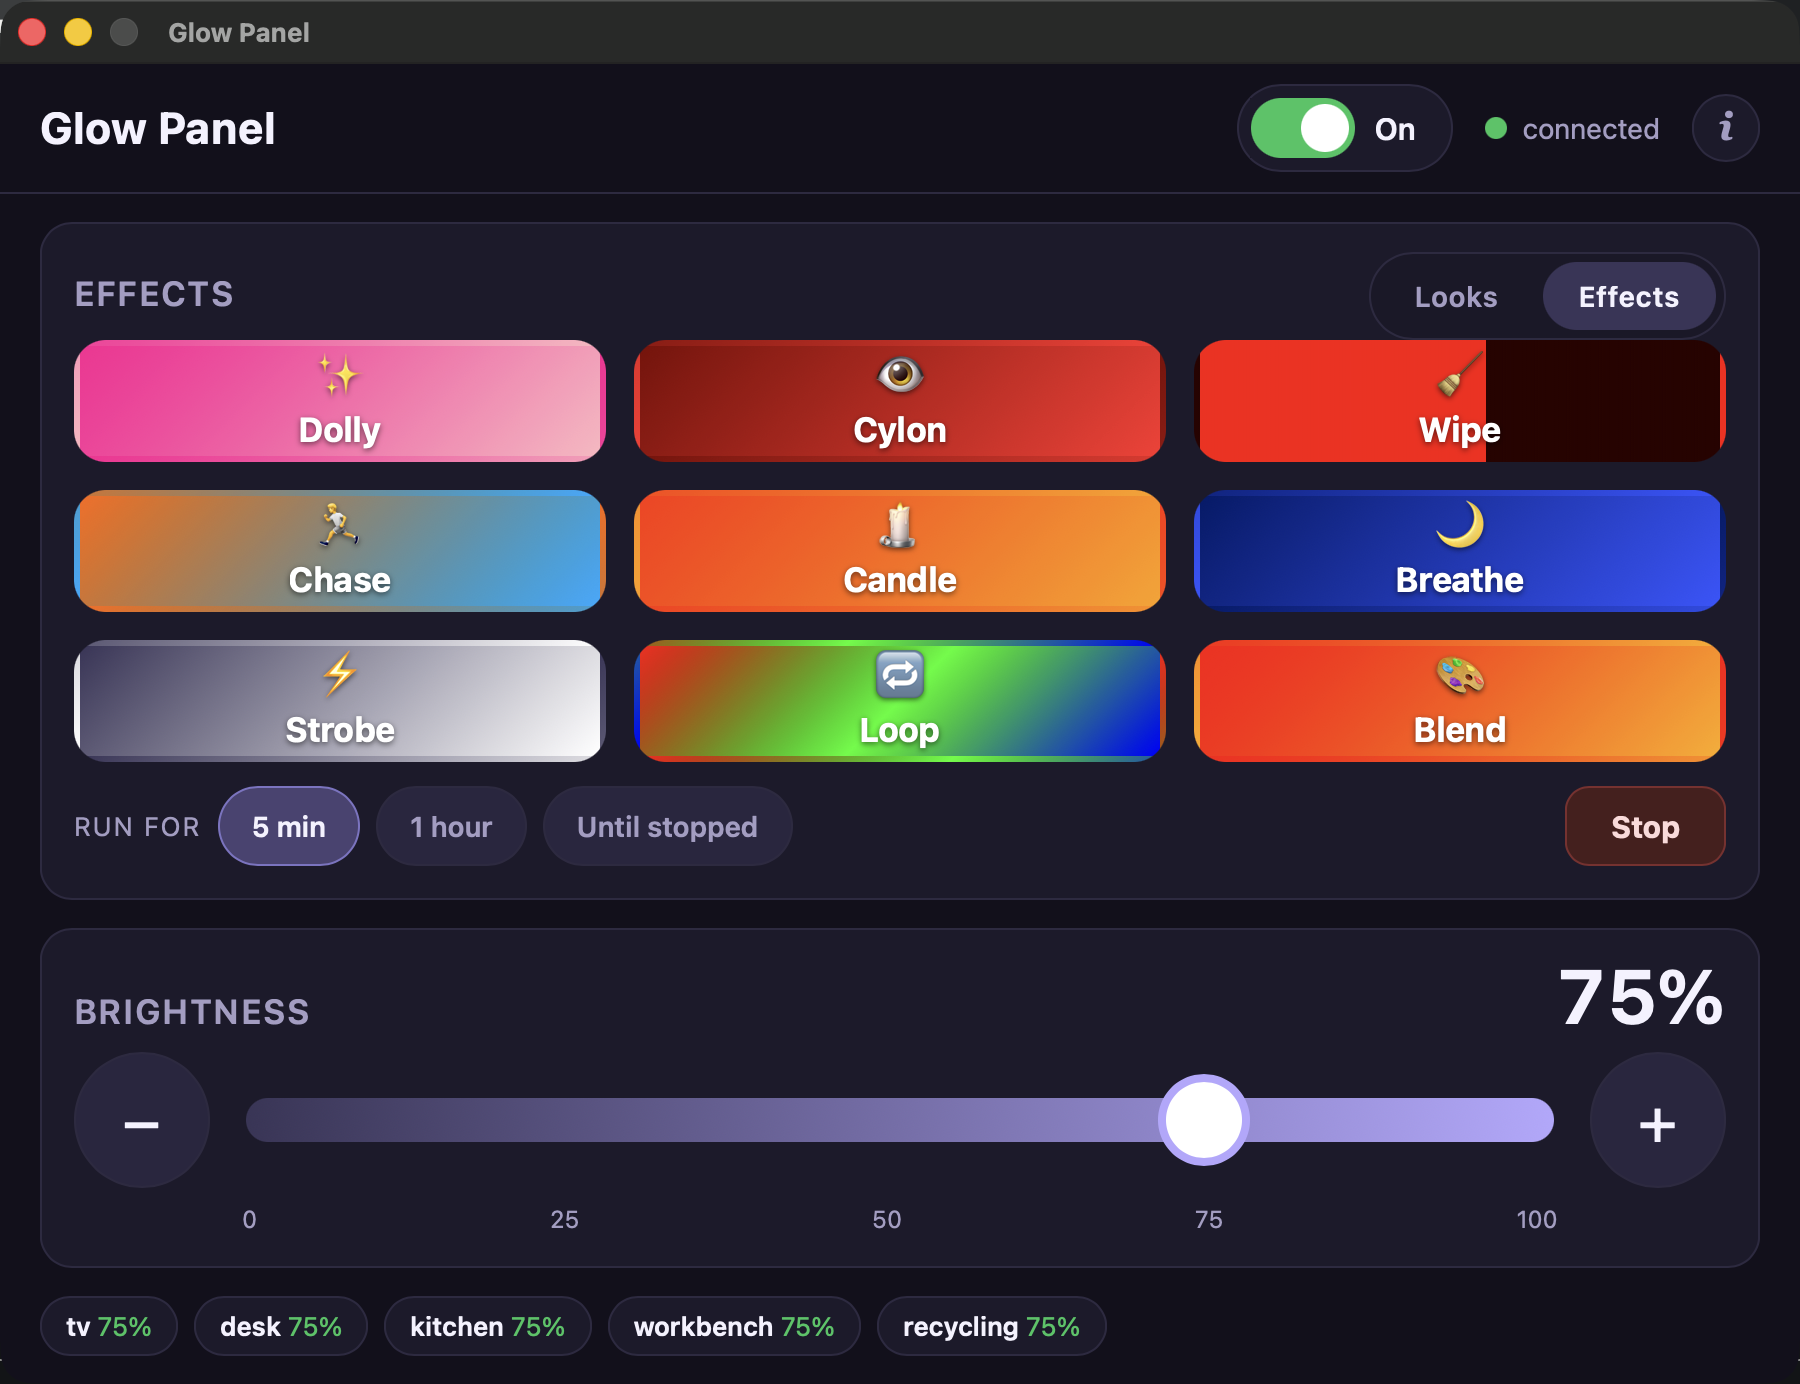
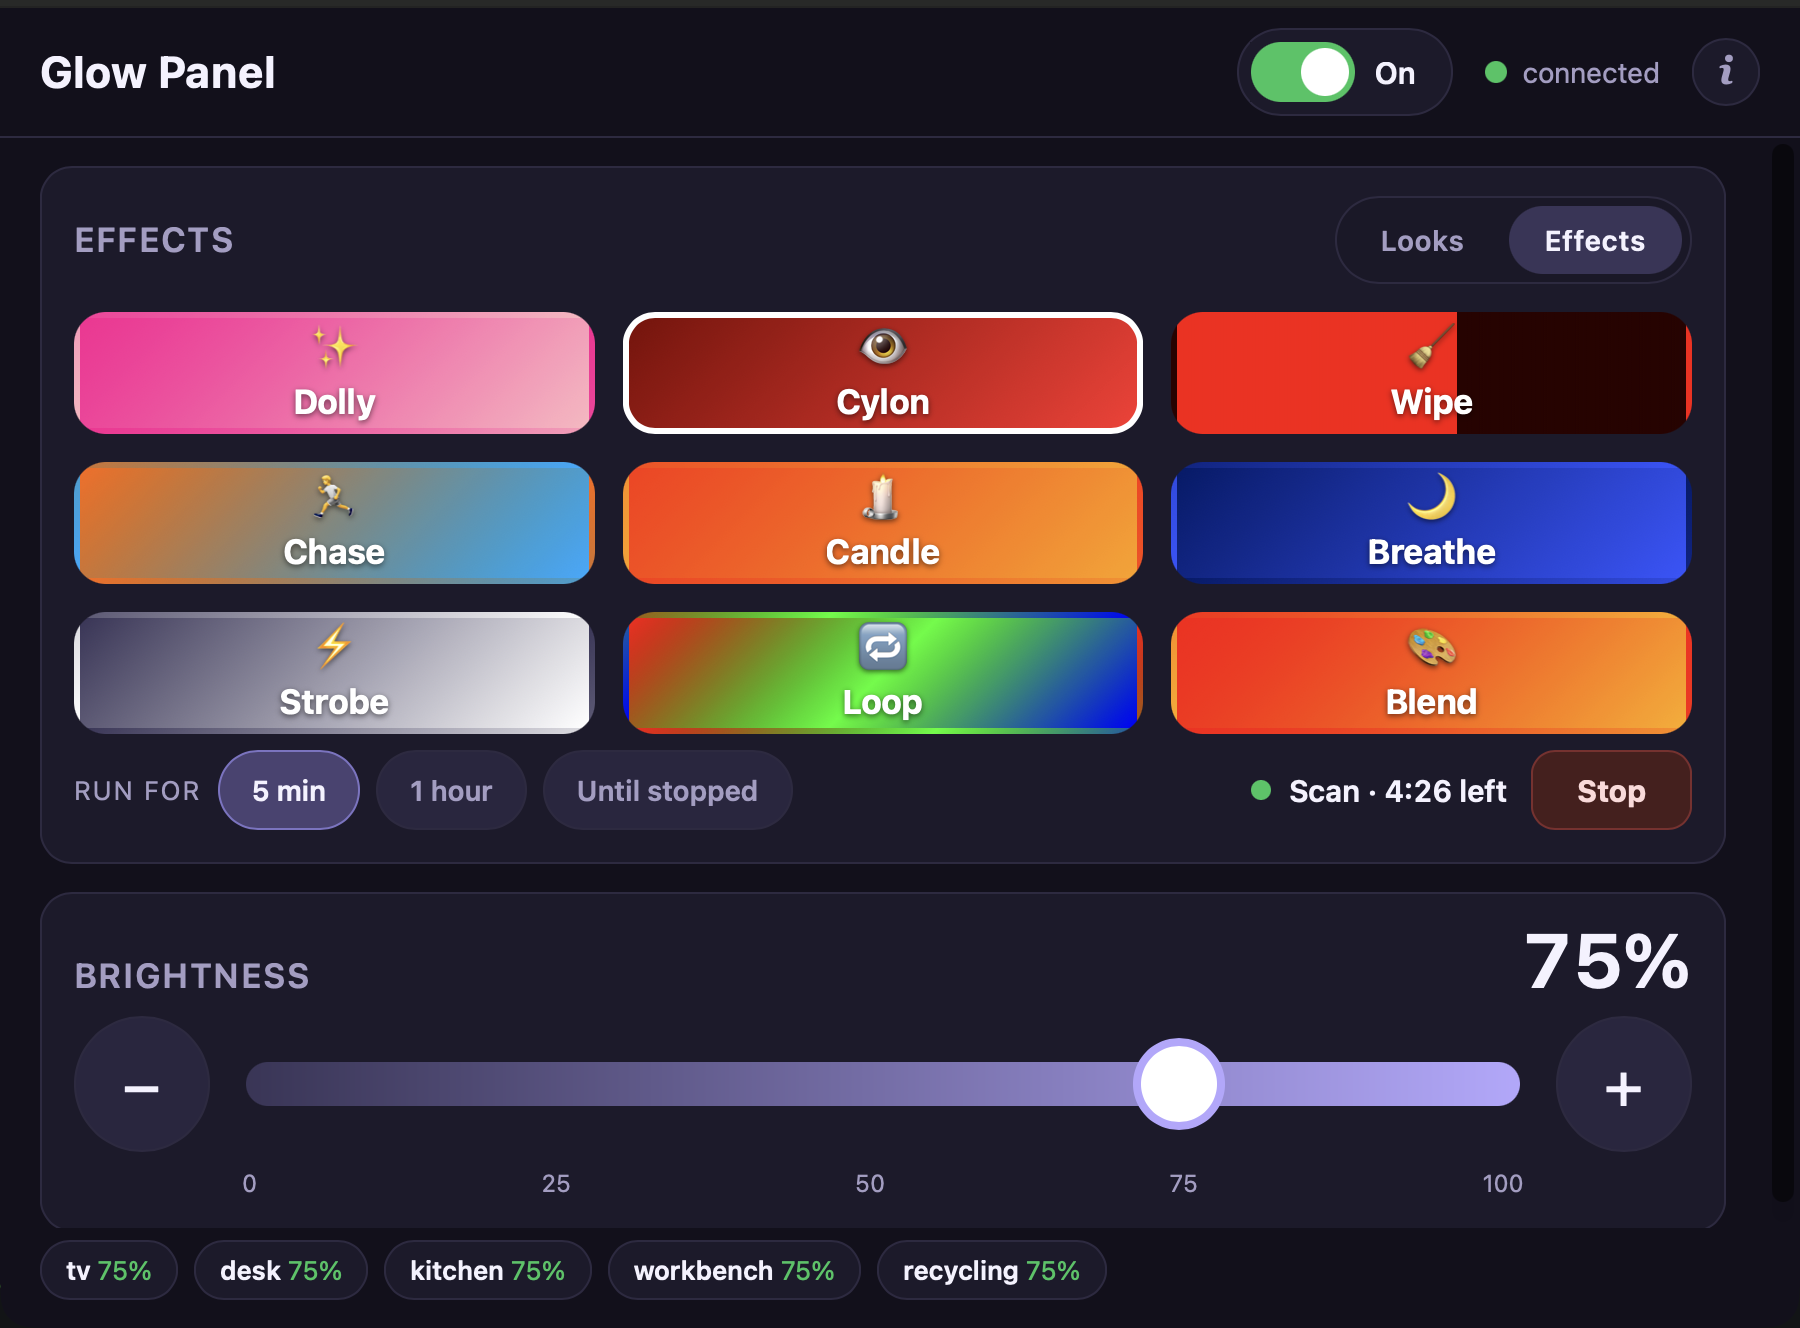
Give the Looks/Effects switch room to breathe
The switch is half again as tall as the heading beside it, so baseline
alignment left it sitting crooked, and the heading's own 10px bottom margin was
not enough space once the switch was what set the row's height. The row now
aligns on the box and carries its own margin.

That costs height on a tab that already had little to spare, so the effect bar
gives back the difference — the whole Effects tab still fits the default 900x660
without a scrollbar, which is the property the fixed-header layout exists to
keep.

Screenshots retaken. Both now show the running-effect banner, including on the
Looks tab, where it appears so that stopping an effect never means going back to
find the tab it was started from.

Claude-Session: https://claude.ai/code/session_014g3wqPEUaqKUhZGvnBHYLE

diff --git a/frontend/dist/style.css b/frontend/dist/style.css
@@ -355,6 +355,18 @@ input[type="range"]::-moz-range-thumb {
 .effect { min-height: 58px; font-size: 17px; }
 .effect .em { font-size: 24px; }
 
+/* The picker's heading row carries the Looks/Effects switch, which is half
+   again as tall as the heading beside it. Baseline alignment leaves it sitting
+   crooked, and the heading's own 10px bottom margin is not enough room once the
+   switch is what sets the row's height - so the row aligns on the box and
+   carries its own spacing above and below. */
+.picker-head {
+    align-items: center;
+    margin: 0 0 14px;
+}
+
+.picker-head h2 { margin-bottom: 0; }
+
 .seg {
     display: flex;
     gap: 4px;
@@ -389,7 +401,7 @@ input[type="range"]::-moz-range-thumb {
     display: flex;
     align-items: center;
     gap: 12px;
-    margin-top: 12px;
+    margin-top: 8px;
 }
 
 .effect-bar[hidden] { display: none; }
@@ -523,6 +535,7 @@ footer {
     main { gap: 10px; padding: 10px 14px 6px; }
     .panel { padding: 12px 14px 12px; }
     .panel h2 { margin-bottom: 8px; }
+    .picker-head { margin: 0 0 10px; }
     .ticks { margin: 5px 76px 0; }
     footer { padding: 4px 14px 10px; }
 }

diff --git a/frontend/dist/index.html b/frontend/dist/index.html
@@ -43,7 +43,7 @@
          showing, and there is no navigation for a child to get lost in. -->
     <main>
         <section class="panel">
-            <div class="panel-head">
+            <div class="panel-head picker-head">
                 <h2 id="pickerTitle">Pick a Look</h2>
                 <div class="seg" role="tablist" aria-label="Looks or effects">
                     <button type="button" class="seg-btn on" id="tabLooks"

diff --git a/README.md b/README.md
@@ -9,7 +9,7 @@ Does the same job as the `glow-*.sh` cron scripts, interactively.
 Runs on Raspberry Pi 3B, Raspberry Pi OS 13 (trixie), arm64, under the labwc
 Wayland session — and on macOS as a native `.app`.
 
-![GlowPanel showing the Looks tab: six theme buttons, a Looks/Effects toggle, the brightness slider at 75%, On/Off and connection status in the header, and per-strip status chips](GlowPanel.png)
+![GlowPanel showing the Looks tab: six theme buttons, a Looks/Effects toggle, a running-effect banner reading "Scan · 3:58 left" with a Stop button, the brightness slider at 75%, On/Off and connection status in the header, and per-strip status chips](GlowPanel.png)
 
 ## What it does
 
@@ -22,7 +22,7 @@ Wayland session — and on macOS as a native `.app`.
 
 ## Effects
 
-![GlowPanel showing the Effects tab: nine preset buttons, a Run For duration row with 5 min selected, and a Stop button](GlowPanelEffects.png)
+![GlowPanel showing the Effects tab: nine preset buttons with Cylon selected, a Run For duration row with 5 min selected, and a banner reading "Scan · 4:26 left" beside a Stop button](GlowPanelEffects.png)
 
 A theme is a look the strips hold. An effect is something they *do* — it runs,
 it can time out, and when it stops the strips go back to whatever theme was
